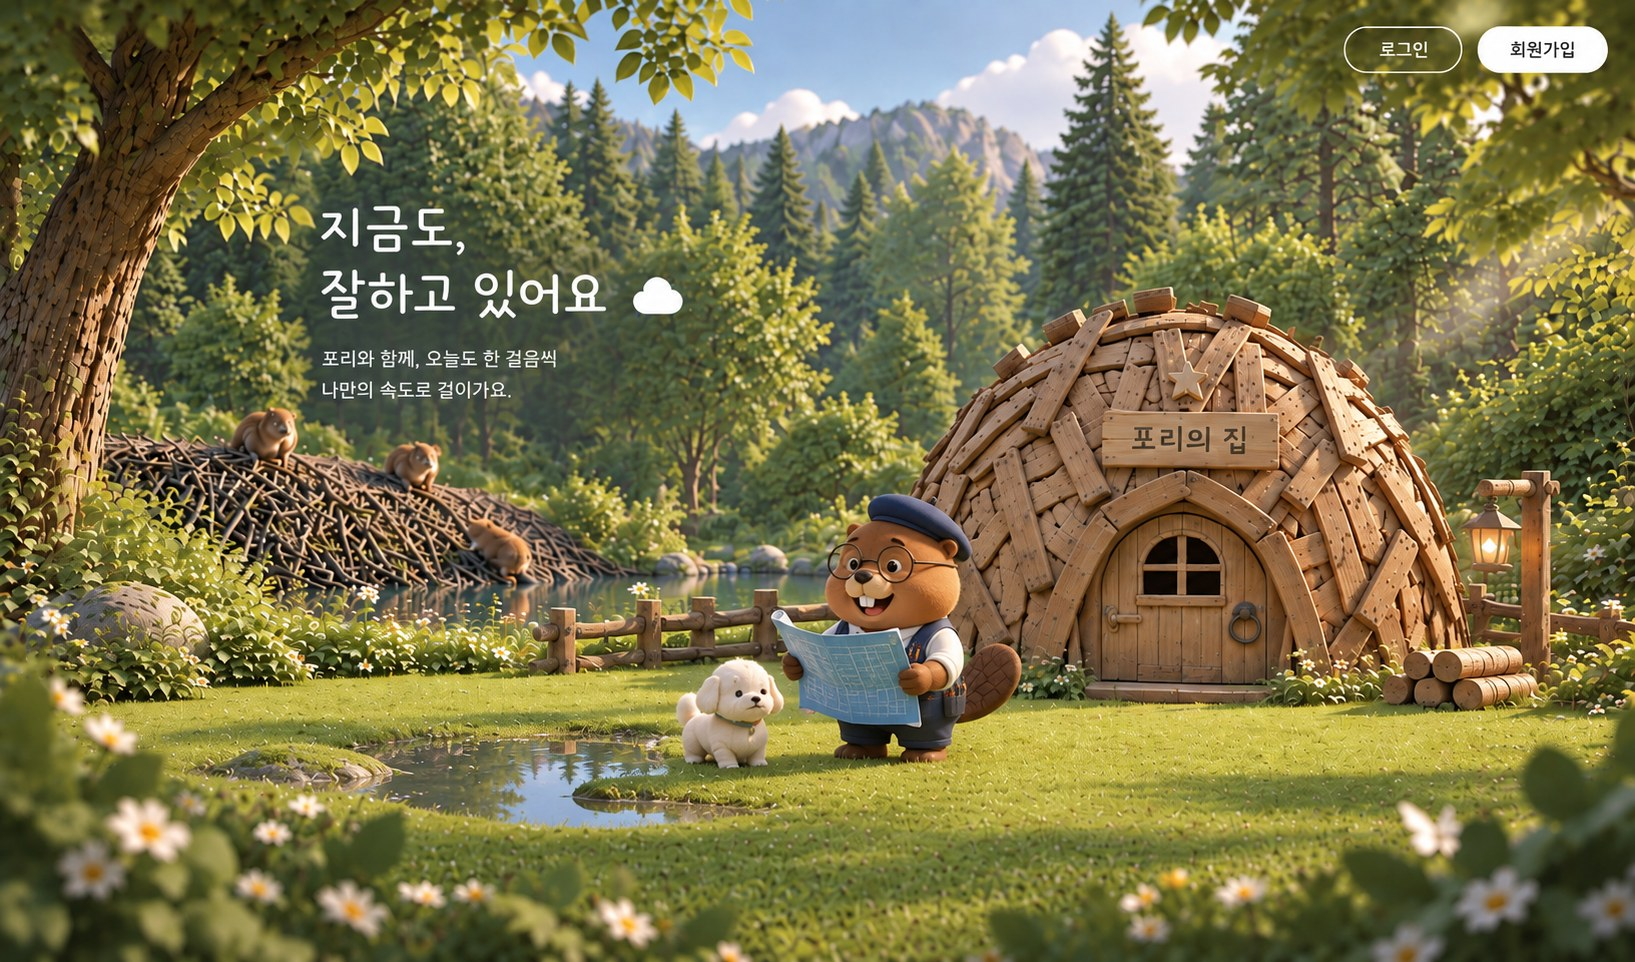
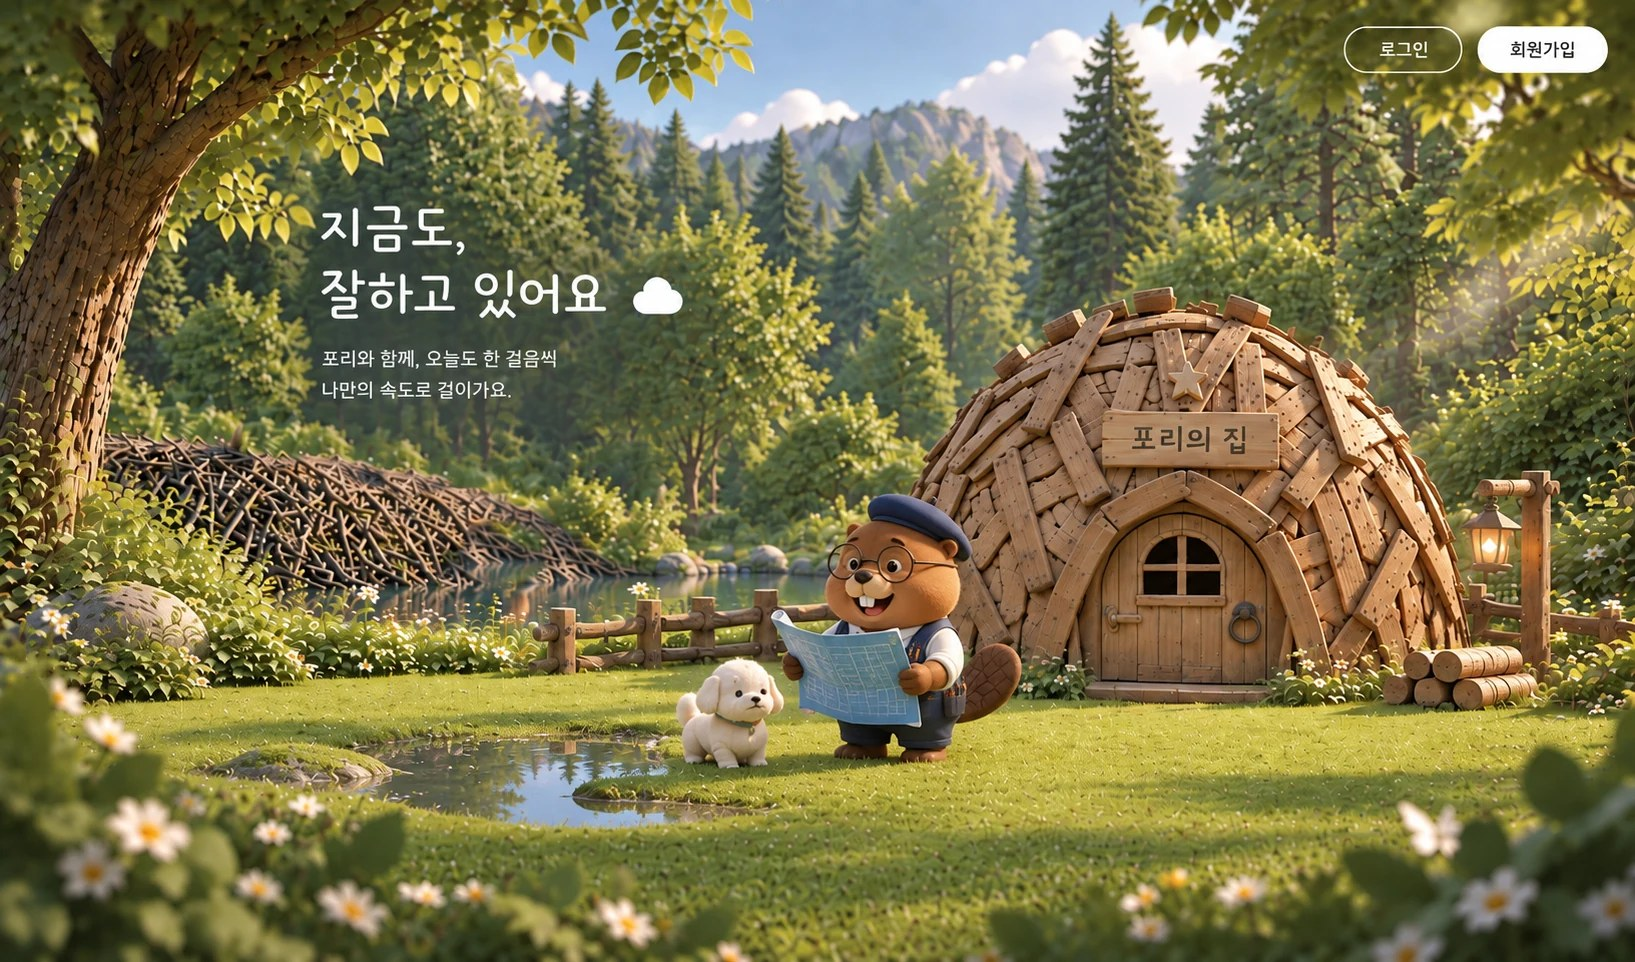
feat: 문을 3D로 열고 · 숲 속 생물에 숨을 넣는다
문
  원근을 문이 아니라 장면에 건다. 전에는 문 자체에 perspective 를 걸어
  문이 자기 중심을 바라보는 별개의 공간에 있었다. 이제 무대 전체에 걸고
  소실점을 무대 중앙(50% 46%) — 그림의 카메라 축 — 에 둔다. 문은 화면
  오른쪽에 있으니 살짝 왼쪽에서 보게 되고, 안으로 열리면 오른쪽 문설주가
  더 드러난다. 실제로 그렇게 보인다.

  일률적인 brightness 대신 기울어진 그늘을 쓴다. 면이 돌아간 느낌은 밝기
  차이가 아니라 이 기울기가 만든다. door.png 의 알파를 마스크로 삼아
  문짝 밖으로 새지 않게 했다.

  기준 길이는 고정 px 로 둔다. vw 로 주면 뷰포트를 못 읽는 상황에서 0px 이
  되어 3D 가 통째로 무너진다. 무대는 뷰포트보다 넓을 수 있어 어차피 vw 가
  올바른 기준도 아니다.

생물
  비버 셋은 배경 그림에서 지웠다. 주변 나뭇가지 질감을 능선 기울기(0.18)
  만큼 어긋나게 떠와 메웠다 — 반복 질감에는 이 방식이 낫다. Telea 인페인트는
  붓자국 같은 얼룩을 남겼다. 뜰 자리는 다른 비버와 겹치지 않는 곳으로 골랐다.
  원본이 없으니 기울이고 들썩여도 유령이 남지 않는다.

  포리·강아지는 배경에 그대로 두고 같은 자리에 겹쳤다. 그래서 '커지는'
  움직임만 준다 — 1.0 밑으로 내려가면 뒤의 원본이 삐져나온다.

  셋이 같은 박자로 움직이면 기계처럼 보이므로 주기(4.1/5.3/4.7초)와 시작점을
  어긋나게 뒀다. 랜턴에는 불빛이 옅게 뛴다.

  움직이는 레이어는 핫스팟(z 10)보다 위에 있어야 한다. 아래에 두면 댐에
  마우스를 올렸을 때 밝아진 댐 그림이 비버를 덮어 사라진다. 대신 호버 강조는
  이 레이어에 함께 걸어 준다.

  prefers-reduced-motion 이면 전부 멈춘다.

곁들여 고친 것
  좁은 화면에서 .stage 가 position:static 이라, 절대 위치인 문짝과 핫스팟이
  무대를 기준으로 잡지 못하고 화면 밖(아래 241%)으로 튀어나갔다. relative 로
  바꿔 흐름은 유지하면서 기준점 역할을 하게 했다.

Changed region(s): [[0.2807, 0.5301, 0.3431, 0.6237], [0.2183, 0.4366, 0.2807, 0.5301], [0.1248, 0.4054, 0.1872, 0.499]]

diff --git a/public/css/scene.css b/public/css/scene.css
@@ -162,26 +162,103 @@ body.show-map .label{opacity:1;transform:translateY(0)}
 /* ───────────────────────── 문 ─────────────────────────
    호버하면 밝아지는 대신 '실제로 열린다'.
    문짝을 그림에서 오려내(door.png) 왼쪽 경첩을 축으로 안쪽으로 돌린다.
-   그 뒤에 어두운 실내를 깔아 두어, 문이 열린 만큼 안이 보인다. */
-.doorfx{position:absolute;inset:0;pointer-events:none;z-index:11}
-.doorfx .dark,
-.doorfx .leaf{
-  position:absolute;left:67.52%;top:49.17%;width:10.28%;height:21.62%;display:block
+   그 뒤에 어두운 문설주(door_inner.png)를 깔아, 열린 만큼 안이 보인다. */
+.doorfx{
+  position:absolute;inset:0;pointer-events:none;z-index:11;
+  /* 원근은 '문'이 아니라 '장면'에 건다.
+     .doorfx 가 무대 전체이므로 소실점(50%)이 곧 그림의 카메라 축이다.
+     문은 화면 오른쪽에 있으니 살짝 왼쪽에서 보게 되고, 안으로 열리면
+     오른쪽 문설주가 더 드러난다 — 실제로 그렇게 보인다.
+     기준 길이는 고정 px 로 둔다. vw 로 주면 뷰포트를 못 읽는 상황에서
+     0px 이 되어 3D 가 통째로 무너진다. 무대는 뷰포트보다 넓을 수도 있어
+     어차피 vw 가 올바른 기준도 아니다. */
+  perspective:1500px;
+  perspective-origin:50% 46%
 }
-/* 실내는 다각형이 아니라 이미지다 — 다각형으로 깎으면 아치가 각진다 */
-.doorfx .leaf{
-  transform-origin:0% 50%;                       /* 경첩은 왼쪽 — 손잡이 고리가 오른쪽에 있다 */
-  transform:perspective(900px) rotateY(0deg);
-  transition:transform .55s cubic-bezier(.2,.85,.3,1), filter .55s ease;
-  will-change:transform;backface-visibility:hidden
+.doorfx .jamb,
+.doorfx .leafwrap{
+  position:absolute;left:67.52%;top:49.17%;width:10.28%;height:21.62%
 }
-.h-door:hover ~ .doorfx .leaf,
-.h-door:focus-visible ~ .doorfx .leaf{
-  transform:perspective(900px) rotateY(-34deg);   /* 음수 = 안쪽으로 열린다 */
-  filter:brightness(.84)
+.doorfx .leafwrap{
+  transform-origin:0% 50%;                  /* 경첩은 왼쪽 — 손잡이 고리가 오른쪽에 있다 */
+  transform:rotateY(0deg);
+  transform-style:preserve-3d;
+  transition:transform .6s cubic-bezier(.22,.9,.28,1);
+  will-change:transform
 }
+.doorfx .leaf{width:100%;height:100%;display:block;backface-visibility:hidden}
+/* 열릴수록 안쪽(경첩 반대편)으로 그늘이 진다.
+   일률적인 brightness 로는 평평해 보인다 — 면이 돌아간 느낌은 이 기울기가 만든다.
+   door.png 의 알파를 마스크로 써서 문짝 밖으로 새지 않게 한다. */
+.doorfx .shade{
+  position:absolute;inset:0;opacity:0;
+  background:linear-gradient(100deg,
+    rgba(26,14,6,0) 12%, rgba(26,14,6,.28) 55%, rgba(26,14,6,.62) 100%);
+  -webkit-mask-image:url(../img/door.png); mask-image:url(../img/door.png);
+  -webkit-mask-size:100% 100%; mask-size:100% 100%;
+  -webkit-mask-repeat:no-repeat; mask-repeat:no-repeat;
+  transition:opacity .6s ease
+}
+.h-door:hover ~ .doorfx .leafwrap,
+.h-door:focus-visible ~ .doorfx .leafwrap{transform:rotateY(-38deg)}
+.h-door:hover ~ .doorfx .shade,
+.h-door:focus-visible ~ .doorfx .shade{opacity:1}
 /* 문만은 밝아지지 않는다 — 밝아진 '닫힌 문'이 위에 덮여 열리는 게 안 보인다 */
 .h-door:hover,.h-door:focus-visible{opacity:0;filter:none}
+
+/* ───────────────────────── 살아 있는 것들 ─────────────────────────
+   숲이 정지 화면으로 보이지 않게 몇몇을 계속 움직인다.
+
+   두 가지 방식이 섞여 있다.
+   · 비버 셋 — 배경 그림에서 지워 두었다(주변 나뭇가지 질감을 떠와 메웠다).
+     원본이 없으니 기울이고 들썩여도 유령이 남지 않는다.
+   · 포리·강아지 — 배경에 그대로 두고 같은 자리에 겹쳤다. 그래서 '커지는'
+     움직임만 준다. 1.0 밑으로 내려가면 뒤의 원본이 삐져나온다.
+
+   핫스팟(z 10)보다 위에 있어야 한다. 아래에 두면 댐에 마우스를 올렸을 때
+   밝아진 댐 그림이 비버를 덮어 사라진다. */
+.fauna{position:absolute;inset:0;pointer-events:none;z-index:12}
+.fauna .f{position:absolute;display:block;transform-origin:50% 100%;will-change:transform}
+
+/* 비버 — 숨 + 몸 기울임 + 살짝 들썩임 */
+@keyframes bvrIdle{
+  0%,100%{transform:translateY(0) rotate(0deg) scaleY(1)}
+  28%     {transform:translateY(-2.2%) rotate(-1.4deg) scaleY(1.05)}
+  55%     {transform:translateY(.6%)  rotate(.9deg)  scaleY(.975)}
+  78%     {transform:translateY(-.8%) rotate(-.4deg) scaleY(1.02)}
+}
+/* 셋이 같은 박자로 움직이면 기계처럼 보인다 — 주기와 시작점을 어긋나게 둔다 */
+.fauna .f-bvr1{animation:bvrIdle 4.1s ease-in-out infinite}
+.fauna .f-bvr2{animation:bvrIdle 5.3s ease-in-out infinite -1.7s}
+.fauna .f-bvr3{animation:bvrIdle 4.7s ease-in-out infinite -3.1s}
+
+/* 포리·강아지 — 커지기만 한다 */
+@keyframes breathe{
+  0%,100%{transform:scale(1)}
+  50%     {transform:scale3d(1.006,1.024,1)}
+}
+.fauna .f-pori{animation:breathe 4.4s ease-in-out infinite}
+.fauna .f-dog {animation:breathe 3.2s ease-in-out infinite -1.1s}
+
+/* 랜턴 불빛 */
+.fauna .lampglow{
+  position:absolute;left:86.8%;top:51.2%;width:9.4%;height:13.6%;
+  background:radial-gradient(closest-side, rgba(255,216,138,.5), rgba(255,190,90,0) 72%);
+  mix-blend-mode:screen;animation:lampGlow 3.6s ease-in-out infinite
+}
+@keyframes lampGlow{0%,100%{opacity:.5;transform:scale(1)}50%{opacity:1;transform:scale(1.1)}}
+
+/* 호버는 움직이는 레이어에 걸어야 한다 —
+   댐 위의 비버, 포리 자신이 배경 그림이 아니라 이 레이어에 있기 때문이다. */
+.h-dam:hover ~ .fauna .f-bvr1,
+.h-dam:hover ~ .fauna .f-bvr2,
+.h-dam:hover ~ .fauna .f-bvr3{filter:brightness(1.18) saturate(1.14)}
+.h-pori:hover ~ .fauna .f-pori,
+.h-pori:focus-visible ~ .fauna .f-pori{
+  filter:brightness(1.18) saturate(1.14) drop-shadow(0 0 9px rgba(255,255,255,.9))
+}
+/* 포리는 밝아진 '정지한 포리'가 위에 덮이면 숨쉬기가 멈춘 것처럼 보인다 */
+.h-pori:hover,.h-pori:focus-visible{opacity:0;filter:none}
 
 /* ───────────────────── 로그인 상태 덮개 ─────────────────────
    그림에 '로그인 / 회원가입'이 그려져 있다. 로그인한 사람에게는
@@ -276,8 +353,11 @@ body[data-auth="in"] .t-signup{display:none}
   body.world-body{overflow:auto}
   .hero{height:auto;min-height:100vh;display:block;padding-bottom:20px}
   .scroller{overflow-x:auto;overflow-y:hidden;-webkit-overflow-scrolling:touch}
-  /* 좁은 화면에서는 가로 스크롤 안에 흐름대로 놓는다 */
-  .stage{position:static;transform:none;width:calc(56vh * 1635 / 962);min-width:780px}
+  /* 좁은 화면에서는 가로 스크롤 안에 흐름대로 놓는다.
+     static 이 아니라 relative 여야 한다 — 핫스팟과 문짝이 절대 위치라
+     무대가 기준이 되지 않으면 화면 밖으로 튀어나간다. */
+  .stage{position:relative;top:auto;transform:none;
+         width:calc(56vh * 1635 / 962);min-width:780px}
   .tools{position:static;margin:12px 12px 0}
   .hint{position:static;margin:14px 12px 0;max-width:none}
   /* 좁은 화면에서는 안내 배너가 도구 버튼을 덮는다 — 흐름 안에 둔다 */
@@ -296,5 +376,5 @@ body[data-auth="in"] .t-signup{display:none}
 @media (min-width:861px){ .menu{display:none} .scroller{overflow:visible} }
 
 @media (prefers-reduced-motion:reduce){
-  *,*:before,*:after{transition-duration:.001ms!important;animation-duration:.001ms!important}
+  *,*:before,*:after{transition-duration:.001ms!important;animation:none!important}
 }

diff --git a/public/index.html b/public/index.html
@@ -59,14 +59,34 @@
       <!-- 문짝. 그림에서 떼어낸 조각이라 경첩(왼쪽)을 축으로 실제로 돌아간다.
            .h-door 뒤에 있어야 형제 선택자(~)로 호버를 받는다. -->
       <div class="doorfx" aria-hidden="true">
-        <img class="dark" src="./img/door_inner.png" alt="">
-        <img class="leaf" src="./img/door.png" alt="">
+        <img class="jamb" src="./img/door_inner.png" alt="">
+        <div class="leafwrap">
+          <img class="leaf" src="./img/door.png" alt="">
+          <span class="shade"></span>
+        </div>
       </div>
 
 
       <!-- ── 포리 → 내 목표 ───────────────────────────────── -->
       <button class="hotspot h-pori" data-key="pori" aria-label="포리 — 내 목표"></button>
       <div class="label t-pori">포리 · 내 목표</div>
+
+      <!-- 살아 있는 것들. 배경 위에 얹혀 각자 다른 박자로 숨쉰다.
+           비버 셋은 배경에서 지워져 있어 자유롭게 움직일 수 있고,
+           포리·강아지는 제자리에 겹쳐 두어 커지기만 한다(원본을 늘 덮는다). -->
+      <div class="fauna" aria-hidden="true">
+        <img class="f f-bvr1" src="./img/bvr1.png" alt=""
+             style="left:14.74%;top:42.00%;width:4.04%;height:6.76%">
+        <img class="f f-bvr2" src="./img/bvr2.png" alt=""
+             style="left:23.49%;top:45.43%;width:4.04%;height:6.03%">
+        <img class="f f-bvr3" src="./img/bvr3.png" alt=""
+             style="left:28.50%;top:54.26%;width:4.77%;height:6.55%">
+        <img class="f f-dog" src="./img/dog.png" alt=""
+             style="left:41.22%;top:68.09%;width:6.85%;height:11.95%">
+        <img class="f f-pori" src="./img/pori.png" alt=""
+             style="left:47.03%;top:51.14%;width:15.54%;height:28.27%">
+        <span class="lampglow"></span>
+      </div>
 
     </div>
   </div>
